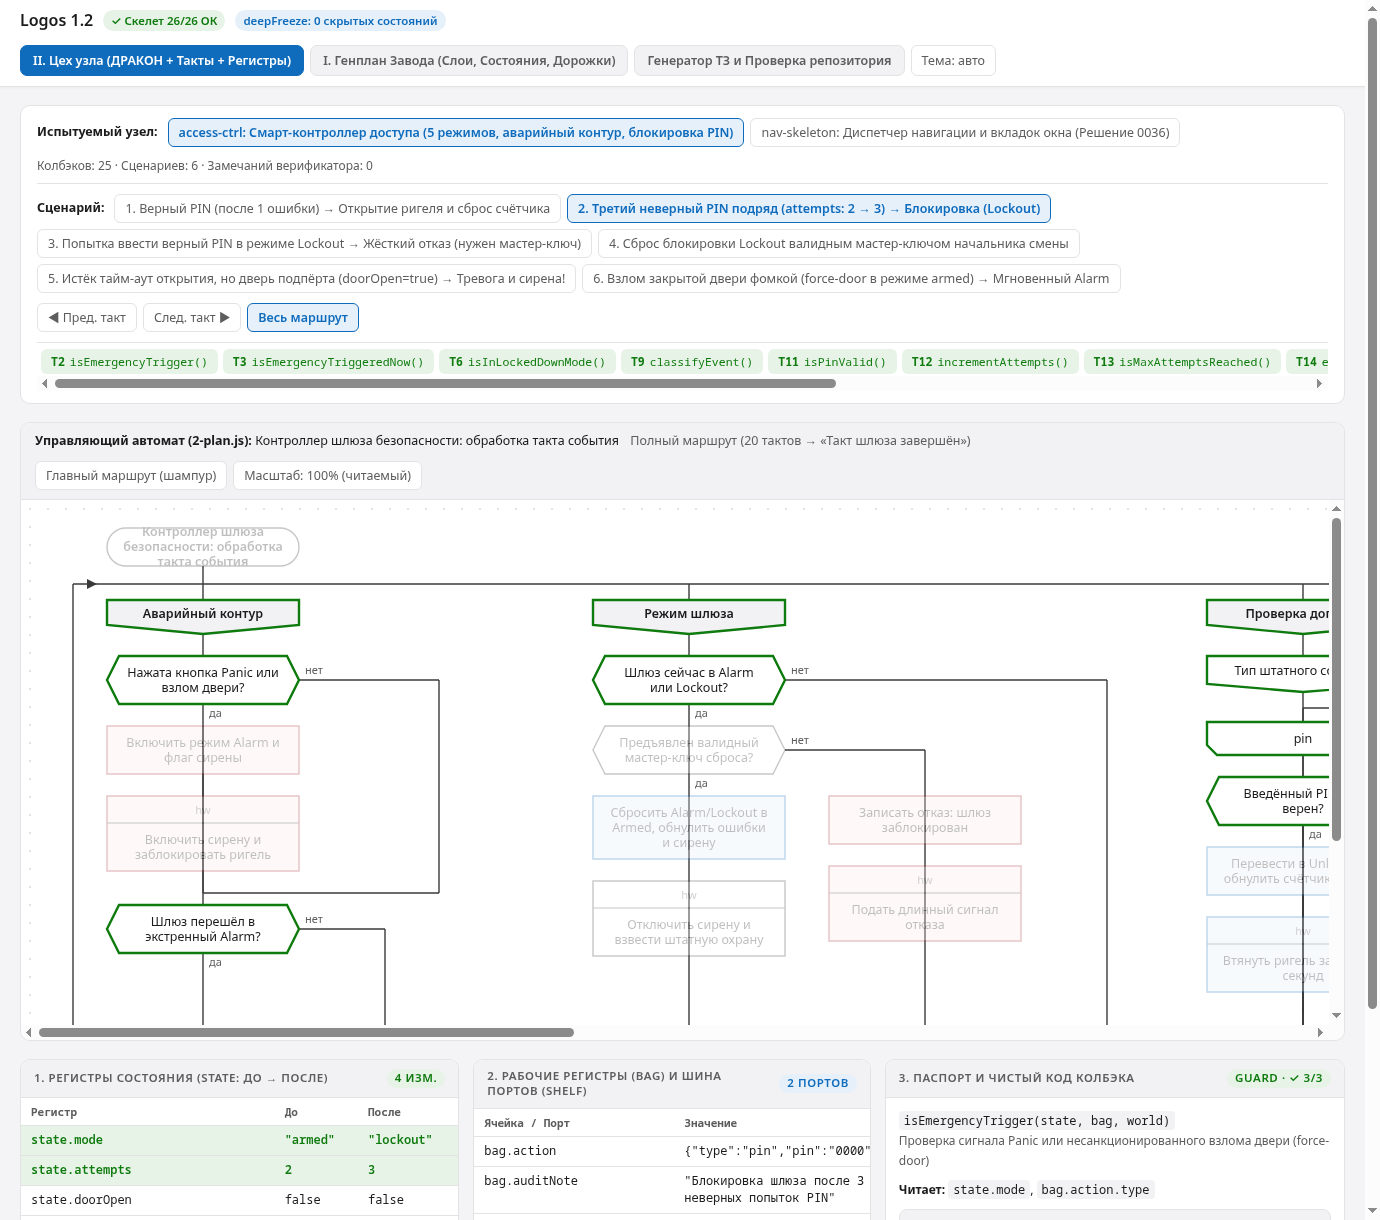
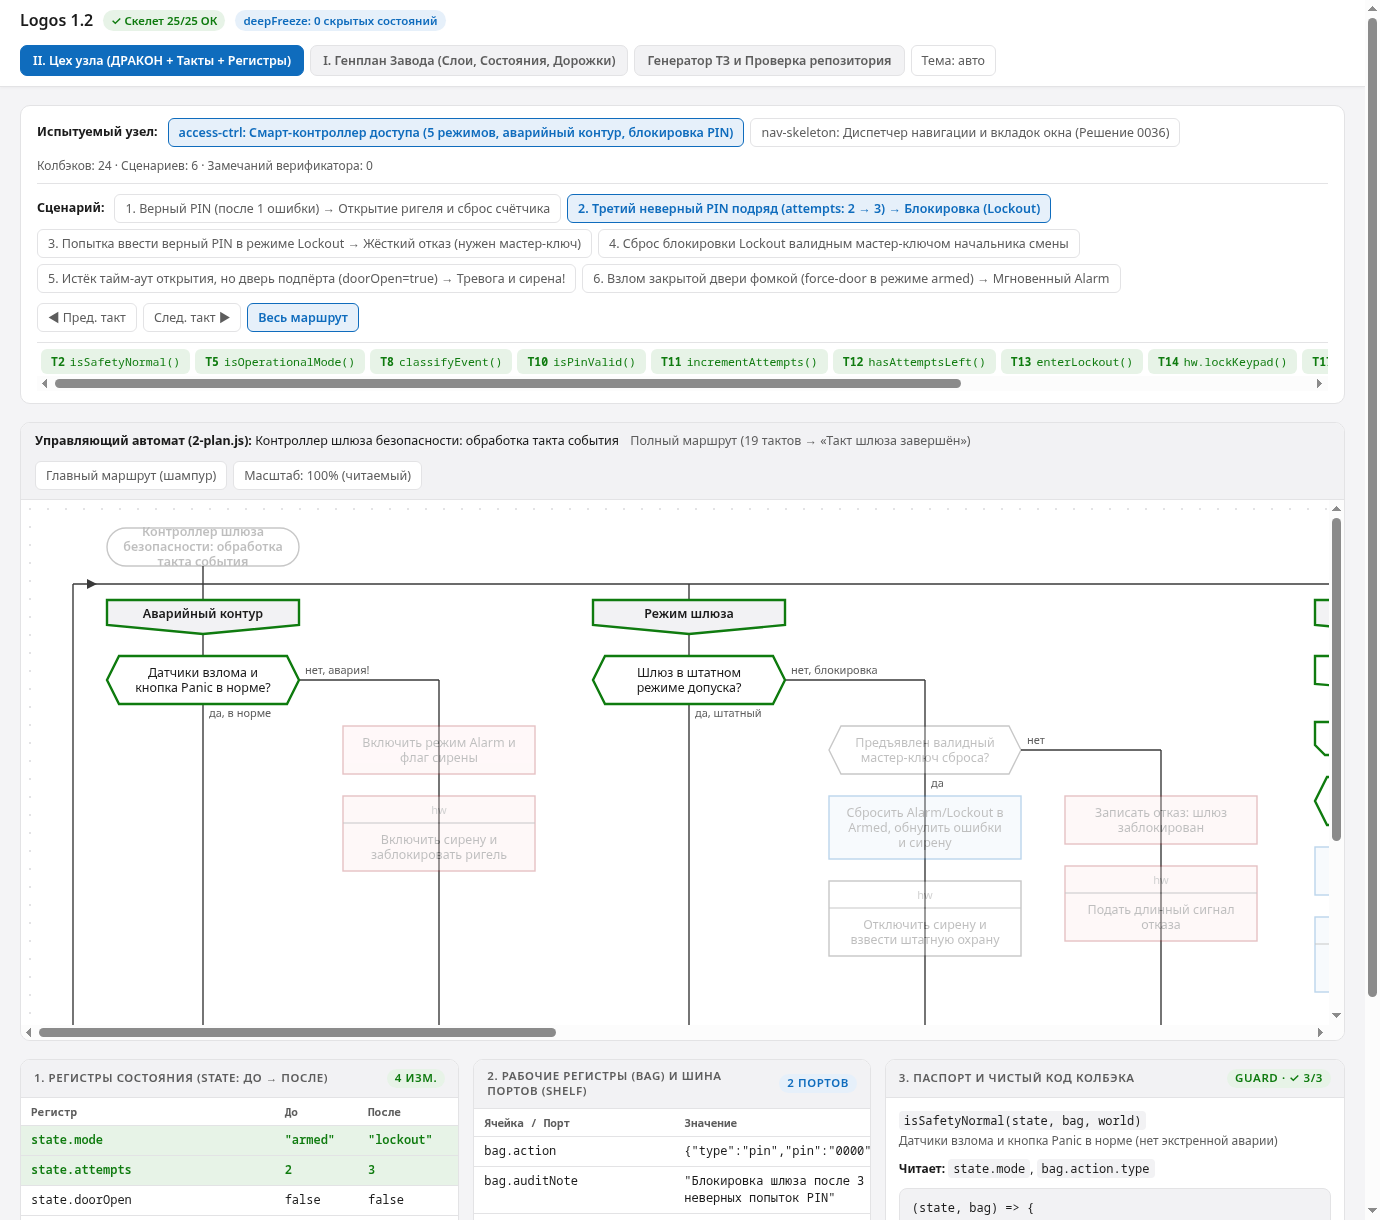
fix(drakon): keep happy path strictly on main skewer and send emergencies/rejections right

diff --git a/examples/access-ctrl/units/core-flow/2-plan.js b/examples/access-ctrl/units/core-flow/2-plan.js
@@ -1,4 +1,7 @@
-/* 2-plan.js — Управляющий автомат шлюза на языке ДРАКОН (Силуэт из 4 веток, 0 вычислений внутри схемы). */
+/* 2-plan.js — Управляющий автомат шлюза на языке ДРАКОН.
+   Строго по Паронджанову («чем правее — тем хуже»):
+   - На главном шампуре каждой ветки — только штатный «счастливый путь» (норма → допуск разрешён → завершение).
+   - Все аварии, блокировки и отказы уходят строго ВПРАВО в ветки «нет» (no). */
 (function (root, factory) {
   if (typeof module === 'object' && module.exports) {
     const D = require('../../../../vendor/drakon.js');
@@ -15,39 +18,41 @@
       {
         name: 'Аварийный контур',
         items: [
-          D.q('Нажата кнопка Panic или взлом двери?', {
-            call: 'isEmergencyTrigger',
-            yes: [
+          D.q('Датчики взлома и кнопка Panic в норме?', {
+            down: 'да, в норме',
+            right: 'нет, авария!',
+            call: 'isSafetyNormal',
+            no: [
               D.act('Включить режим Alarm и флаг сирены', { k: 'stop', call: 'enterAlarm' }),
               D.shelf('hw', 'Включить сирену и заблокировать ригель', { k: 'stop', call: 'soundSiren' }),
+              D.go('Завершение такта'),
             ],
-            no: [],
           }),
-          D.q('Шлюз перешёл в экстренный Alarm?', {
-            call: 'isEmergencyTriggeredNow',
-            no: [D.go('Режим шлюза')],
-          }),
-          D.go('Завершение такта'),
+          D.go('Режим шлюза'),
         ],
       },
       {
         name: 'Режим шлюза',
         items: [
-          D.q('Шлюз сейчас в Alarm или Lockout?', {
-            call: 'isInLockedDownMode',
-            no: [D.go('Проверка допуска')],
-          }),
-          D.q('Предъявлен валидный мастер-ключ сброса?', {
-            call: 'isMasterResetValid',
+          D.q('Шлюз в штатном режиме допуска?', {
+            down: 'да, штатный',
+            right: 'нет, блокировка',
+            call: 'isOperationalMode',
             no: [
-              D.act('Записать отказ: шлюз заблокирован', { k: 'stop', call: 'noteBlockedAttempt' }),
-              D.shelf('hw', 'Подать длинный сигнал отказа', { k: 'stop', call: 'beepReject' }),
+              D.q('Предъявлен валидный мастер-ключ сброса?', {
+                call: 'isMasterResetValid',
+                no: [
+                  D.act('Записать отказ: шлюз заблокирован', { k: 'stop', call: 'noteBlockedAttempt' }),
+                  D.shelf('hw', 'Подать длинный сигнал отказа', { k: 'stop', call: 'beepReject' }),
+                  D.go('Завершение такта'),
+                ],
+              }),
+              D.act('Сбросить Alarm/Lockout в Armed, обнулить ошибки и сирену', { k: 'new', call: 'resetToArmed' }),
+              D.shelf('hw', 'Отключить сирену и взвести штатную охрану', { call: 'silenceSiren' }),
               D.go('Завершение такта'),
             ],
           }),
-          D.act('Сбросить Alarm/Lockout в Armed, обнулить ошибки и сирену', { k: 'new', call: 'resetToArmed' }),
-          D.shelf('hw', 'Отключить сирену и взвести штатную охрану', { call: 'silenceSiren' }),
-          D.go('Завершение такта'),
+          D.go('Проверка допуска'),
         ],
       },
       {
@@ -67,13 +72,15 @@
                     ],
                     no: [
                       D.act('Увеличить счётчик ошибок PIN (attempts + 1)', { call: 'incrementAttempts' }),
-                      D.q('Достигнут предел 3 ошибок подряд?', {
-                        call: 'isMaxAttemptsReached',
-                        yes: [
+                      D.q('Остались попытки до блокировки (< 3)?', {
+                        down: 'да, есть попытки',
+                        right: 'нет, 3-я ошибка',
+                        call: 'hasAttemptsLeft',
+                        yes: [D.shelf('hw', 'Короткий сигнал неверного PIN', { k: 'stop', call: 'beepReject' })],
+                        no: [
                           D.act('Перевести шлюз в режим Lockout', { k: 'stop', call: 'enterLockout' }),
                           D.shelf('hw', 'Включить блокировку клавиатуры на 30 с', { k: 'stop', call: 'lockKeypad' }),
                         ],
-                        no: [D.shelf('hw', 'Короткий сигнал неверного PIN', { k: 'stop', call: 'beepReject' })],
                       }),
                     ],
                   }),
@@ -123,7 +130,7 @@
     {
       id: 'access-ctrl-flow',
       notes: [
-        'Ветка 1 перехватывает физический взлом и кнопку Panic в любом состоянии. Ветка 2 не пускает обычный PIN, пока шлюз в Alarm или Lockout.',
+        'Главный маршрут (шампур) каждой ветки идёт строго прямо сверху вниз без прерываний: Норма датчиков → Штатный режим → Верный PIN → Завершение такта. Все аварии и отказы уходят вправо.',
       ],
     }
   );

diff --git a/vendor/drakon.js b/vendor/drakon.js
@@ -489,10 +489,13 @@
     const say = (level, where, message) => found.push({ level, where, message });
     const branches = d.kind === 'silhouette' ? new Set(d.branches.map((b) => b.name)) : new Set();
 
-    function walk(items, where, top) {
+    function walk(items, where, top, onSkewer) {
       items.forEach((it, i) => {
         const at = `${where} › ${it.text || it.to || it.t}`;
         const last = i === items.length - 1;
+        if (onSkewer && it.k === 'stop') {
+          say('warn', at, 'Икона отказа (stop) стоит на главном маршруте (шампуре): по правилу «чем правее — тем хуже» отказы и аварии уводят в правую ветку (no).');
+        }
         if (it.t === 'goto') {
           if (!last) say('error', at, 'Адрес стоит не последним в пути.');
           if (!top) say('error', at, 'Адрес внутри цикла, выбора или сливающегося вопроса: раскладка так не умеет.');
@@ -503,18 +506,21 @@
         if (it.t === 'q') {
           if (NEGATION.test(it.text) && (!it.down || !it.right))
             say('warn', at, 'Вопрос с отрицанием: подпишите выходы с пояснением («да, …» / «нет, …»).');
+          const yes = it.yes || [];
           const no = it.no || [];
           const terminal = no.length && no[no.length - 1].t === 'goto';
-          if (terminal && (it.yes || []).length) say('error', at, 'У вопроса с адресом на «нет» путь «да» — продолжение шампура, yes не нужен.');
-          walk(it.yes || [], at, false);
-          walk(no, at, top && terminal);
+          if (terminal && yes.length) say('error', at, 'У вопроса с адресом на «нет» путь «да» — продолжение шампура, yes не нужен.');
+          if (!terminal && yes.length > 0 && no.length === 0)
+            say('warn', at, 'У вопроса заполнена ветка «да» при пустой «нет» (обход пустой линией справа): переверните вопрос, чтобы главный маршрут шёл по шампуру, а условный шаг — вправо.');
+          walk(yes, at, false, onSkewer);
+          walk(no, at, top && terminal, false);
         }
         if (it.t === 'choice') {
           if (it.cases.length < 2) say('warn', at, 'Выбор с одним вариантом — это действие.');
           if (it.cases.length > MAX_CASES) say('warn', at, `В выборе не больше ${MAX_CASES} вариантов (язык ДРАКОН): их ${it.cases.length}.`);
-          it.cases.forEach((c) => walk(c.seq, `${at} › ${c.label}`, false));
+          it.cases.forEach((c, cIdx) => walk(c.seq, `${at} › ${c.label}`, false, onSkewer && cIdx === 0));
         }
-        if (it.t === 'loop') walk(it.body, at, false);
+        if (it.t === 'loop') walk(it.body, at, false, onSkewer);
       });
     }
 
@@ -524,7 +530,7 @@
     if (d.kind === 'primitive') {
       const n = countIcons(d.items);
       if (n > MAX_PRIMITIVE) say('warn', d.title, `Примитив — для простых алгоритмов (до ${MAX_PRIMITIVE} икон), здесь ${n}: сложное рисуют силуэтом, по частям.`);
-      walk(d.items, d.title, true);
+      walk(d.items, d.title, true, true);
     } else {
       const index = new Map();
       const reached = new Set();
@@ -541,7 +547,7 @@
         if (last && (!tail || tail.t !== 'end')) say('error', b.name, 'Последняя ветка кончается иконой «Конец».');
         if (!last && (!tail || tail.t !== 'goto')) say('error', b.name, 'Ветка кончается адресом следующей.');
         if (i > 0 && !reached.has(b.name)) say('warn', b.name, 'Ни один адрес не ведёт на эту ветку: до неё не дойти.');
-        walk(b.items, b.name, true);
+        walk(b.items, b.name, true, true);
       });
     }
     return found;

diff --git a/examples/access-ctrl/units/core-flow/3-contracts.js b/examples/access-ctrl/units/core-flow/3-contracts.js
@@ -9,37 +9,27 @@
   'use strict';
 
   return [
-    /* ── Датчики и предикаты (guards) ── */
+    /* ── Датчики и предикаты (guards) — «да» всегда ведёт по счастливому пути вниз! ── */
     {
-      id: 'isEmergencyTrigger',
+      id: 'isSafetyNormal',
       kind: 'guard',
-      title: 'Проверка сигнала Panic или несанкционированного взлома двери (force-door)',
+      title: 'Датчики взлома и кнопка Panic в норме (нет экстренной аварии)',
       reads: ['state.mode', 'bag.action.type'],
       cases: [
-        { title: 'кнопка panic → true', state: { mode: 'armed' }, bag: { action: { type: 'panic' } }, expect: true },
-        { title: 'взлом force-door при охране → true', state: { mode: 'armed' }, bag: { action: { type: 'force-door' } }, expect: true },
-        { title: 'обычный ввод pin → false', state: { mode: 'armed' }, bag: { action: { type: 'pin' } }, expect: false },
+        { title: 'обычный ввод pin → true (норма, вниз по шампуру)', state: { mode: 'armed' }, bag: { action: { type: 'pin' } }, expect: true },
+        { title: 'кнопка panic → false (авария, вправо!)', state: { mode: 'armed' }, bag: { action: { type: 'panic' } }, expect: false },
+        { title: 'взлом force-door при охране → false (авария, вправо!)', state: { mode: 'armed' }, bag: { action: { type: 'force-door' } }, expect: false },
       ],
     },
     {
-      id: 'isEmergencyTriggeredNow',
+      id: 'isOperationalMode',
       kind: 'guard',
-      title: 'Проверка, сработал ли на этом такте аварийный контур (bag.emergency === true)',
-      reads: ['bag.emergency'],
-      cases: [
-        { title: 'авария сработала → true', bag: { emergency: true }, expect: true },
-        { title: 'штатный такт → false', bag: {}, expect: false },
-      ],
-    },
-    {
-      id: 'isInLockedDownMode',
-      kind: 'guard',
-      title: 'Находится ли шлюз в режиме блокировки (alarm или lockout)',
+      title: 'Шлюз находится в штатном рабочем режиме (не в Alarm и не в Lockout)',
       reads: ['state.mode'],
       cases: [
-        { title: 'lockout → true', state: { mode: 'lockout' }, expect: true },
-        { title: 'alarm → true', state: { mode: 'alarm' }, expect: true },
-        { title: 'armed → false', state: { mode: 'armed' }, expect: false },
+        { title: 'armed → true (штатный, вниз по шампуру)', state: { mode: 'armed' }, expect: true },
+        { title: 'lockout → false (блокировка, вправо)', state: { mode: 'lockout' }, expect: false },
+        { title: 'alarm → false (тревога, вправо)', state: { mode: 'alarm' }, expect: false },
       ],
     },
     {
@@ -84,13 +74,13 @@
       ],
     },
     {
-      id: 'isMaxAttemptsReached',
+      id: 'hasAttemptsLeft',
       kind: 'guard',
-      title: 'Достигнут ли порог блокировки (state.attempts >= 3)',
+      title: 'Остались ли ещё попытки ввода PIN до блокировки (state.attempts < 3)',
       reads: ['state.attempts'],
       cases: [
-        { title: '3 попытки → true', state: { attempts: 3 }, expect: true },
-        { title: '2 попытки → false', state: { attempts: 2 }, expect: false },
+        { title: '2 ошибки → true (попытки ещё есть)', state: { attempts: 2 }, expect: true },
+        { title: '3 ошибки → false (лимит исчерпан, вправо в Lockout)', state: { attempts: 3 }, expect: false },
       ],
     },
     {

diff --git a/examples/keel-model.js b/examples/keel-model.js
@@ -367,10 +367,7 @@
                 name: 'Проверка ревизии',
                 items: [
                   D.shelf('Nav (window-state.ts)', 'Принять действие { type, modelRev }'),
-                  D.q('Действие привязано к ребру/грани?', {
-                    no: [D.go('Допустимость')],
-                  }),
-                  D.q('modelRev совпадает с текущей ревизией тела?', {
+                  D.q('Ревизия геометрии актуальна для действия?', {
                     no: [
                       D.act('Отбросить действие по устаревшей геометрии (no-op)', 'stop', 1),
                       D.go('Завершение'),
@@ -396,8 +393,10 @@
                 name: 'Переход и эффект',
                 items: [
                   D.act('Построить новый иммутабельный снимок Nav (modeOf вычисляется)'),
-                  D.q('Команда запускает продуктовый коммит?', {
-                    yes: [D.ins('Продуктовый коммит и выдача PN', 'alg-product-commit')],
+                  D.q('Обычная правка черновика (без выдачи PN)?', {
+                    down: 'да, обычная',
+                    right: 'нет, выпуск PN',
+                    no: [D.ins('Продуктовый коммит и выдача PN', 'alg-product-commit')],
                   }),
                   D.act('Обновить интерфейс чистой функцией render(prev, next)', 'new'),
                   D.go('Завершение'),

diff --git a/examples/access-ctrl/units/core-flow/impl/guards.js b/examples/access-ctrl/units/core-flow/impl/guards.js
@@ -1,5 +1,6 @@
 /* impl/guards.js — Чистые предикаты и селекторы контроллера шлюза безопасности.
-   СТРАЖ ЧИСТОТЫ: 0 let, 0 var, 0 class, 0 this, 0 DOM. Вход заморожен через deepFreeze. */
+   По канону ДРАКОНа: true всегда означает «норма / счастливый путь вниз по шампуру»,
+   а false уводит поток вправо на обработку аварии, блокировки или отказа. */
 (function (root, factory) {
   if (typeof module === 'object' && module.exports) {
     module.exports = factory();
@@ -10,14 +11,13 @@
   'use strict';
 
   return {
-    isEmergencyTrigger: (state, bag) => {
+    isSafetyNormal: (state, bag) => {
       const t = bag.action && bag.action.type;
-      return t === 'panic' || (t === 'force-door' && state.mode !== 'unlocked' && state.mode !== 'maintenance');
+      const isBreakIn = t === 'force-door' && state.mode !== 'unlocked' && state.mode !== 'maintenance';
+      return t !== 'panic' && !isBreakIn;
     },
 
-    isEmergencyTriggeredNow: (_state, bag) => Boolean(bag.emergency),
-
-    isInLockedDownMode: (state) => state.mode === 'alarm' || state.mode === 'lockout',
+    isOperationalMode: (state) => state.mode !== 'alarm' && state.mode !== 'lockout',
 
     isMasterResetValid: (_state, bag, world) =>
       Boolean(
@@ -37,7 +37,7 @@
     isPinValid: (_state, bag, world) =>
       Boolean(bag.action && world && bag.action.pin === world.validPin),
 
-    isMaxAttemptsReached: (state) => state.attempts >= 3,
+    hasAttemptsLeft: (state) => state.attempts < 3,
 
     isDoorClosed: (state) => !state.doorOpen,
 
